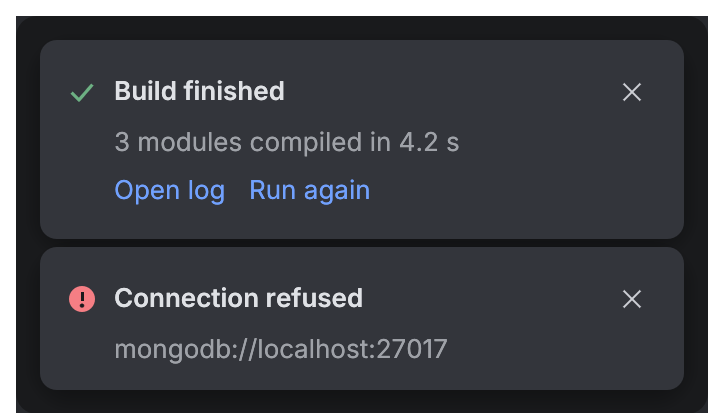
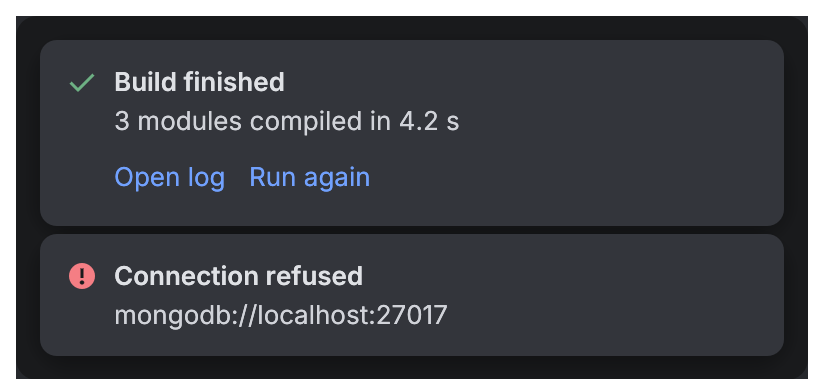
fix(toast): Android Studio notification layout
Match Android Studio's notification balloons: 370 pt wide, the title line as
tall as its text (the dismiss button no longer inflates it), the body in the
text color, and the dismiss button in the top-right corner while the card is
hovered or the button focused (it keeps its name and Tab stop while hidden).

Claude-Session: https://claude.ai/code/session_01CFSJRhkJs2RrB2frFQVn3u

diff --git a/crates/archipel-kit/src/components/feedback.rs b/crates/archipel-kit/src/components/feedback.rs
@@ -197,19 +197,21 @@ impl Toast {
     pub fn show(self, ui: &mut Ui) -> MessageResponse {
         let colors = Theme::colors(ui.ctx());
         let mut out = MessageResponse::default();
-        egui::Frame::new()
+        let padding = size::NOTIFICATION_PADDING;
+        let frame = egui::Frame::new()
             .fill(colors.notification)
             .stroke(Stroke::new(1.0_f32, colors.popup_border))
             .corner_radius(CornerRadius::same(radius::POPUP))
-            .inner_margin(egui::Margin::same(12))
+            .inner_margin(egui::Margin::same(padding as i8))
             .shadow(ui.visuals().popup_shadow)
             .show(ui, |ui| {
-                ui.set_width(296.0);
+                ui.set_width(size::NOTIFICATION_WIDTH - 2.0 * padding);
                 ui.horizontal_top(|ui| {
                     ui.spacing_mut().item_spacing.x = 8.0;
-                    // Center the icon on the title line, which is as tall as the close button.
+                    // The icon sits on the title line.
+                    let line = ui.text_style_height(&egui::TextStyle::Body);
                     ui.allocate_ui_with_layout(
-                        vec2(size::ICON, size::ICON_BUTTON),
+                        vec2(size::ICON, line),
                         egui::Layout::centered_and_justified(egui::Direction::TopDown),
                         |ui| {
                             icons::show(
@@ -222,31 +224,24 @@ impl Toast {
                     );
                     ui.vertical(|ui| {
                         ui.spacing_mut().item_spacing.y = 4.0;
-                        ui.horizontal(|ui| {
-                            ui.add(
-                                egui::Label::new(
-                                    egui::RichText::new(&self.title)
-                                        .font(typography::semibold(ui.ctx(), typography::BODY))
-                                        .color(colors.text_strong),
-                                )
-                                .wrap(),
-                            );
-                            ui.with_layout(egui::Layout::right_to_left(egui::Align::Min), |ui| {
-                                ui.spacing_mut().interact_size = vec2(20.0, 20.0);
-                                if ui.add(IconButton::new(Glyph::Close, "Dismiss")).clicked() {
-                                    out.dismissed = true;
-                                }
-                            });
-                        });
+                        // Leave room for the dismiss button over the title's end.
+                        ui.set_max_width(ui.available_width() - size::ICON_BUTTON_SMALL);
+                        ui.add(
+                            egui::Label::new(
+                                egui::RichText::new(&self.title)
+                                    .font(typography::semibold(ui.ctx(), typography::BODY))
+                                    .color(colors.text_strong),
+                            )
+                            .wrap(),
+                        );
                         if let Some(body) = &self.body {
                             ui.add(
-                                egui::Label::new(
-                                    egui::RichText::new(body).color(colors.text_secondary),
-                                )
-                                .wrap(),
+                                egui::Label::new(egui::RichText::new(body).color(colors.text))
+                                    .wrap(),
                             );
                         }
                         if !self.actions.is_empty() {
+                            ui.add_space(4.0);
                             ui.horizontal(|ui| {
                                 ui.spacing_mut().item_spacing.x = 12.0;
                                 for (index, label) in self.actions.iter().enumerate() {
@@ -259,6 +254,29 @@ impl Toast {
                     });
                 });
             });
+        // As in Android Studio's notifications, the dismiss button shows in the top-right
+        // corner while the pointer is over the card (or the button has focus); it keeps its
+        // name and Tab stop while hidden.
+        let card = frame.response.rect;
+        let corner = egui::Rect::from_min_size(
+            egui::pos2(
+                card.right() - padding / 2.0 - size::ICON_BUTTON_SMALL,
+                card.top() + padding / 2.0,
+            ),
+            vec2(size::ICON_BUTTON_SMALL, size::ICON_BUTTON_SMALL),
+        );
+        let mut close = ui.new_child(egui::UiBuilder::new().max_rect(corner));
+        let close_id = close.next_auto_id();
+        let focused = ui.memory(|m| m.has_focus(close_id));
+        if !(ui.rect_contains_pointer(card) || focused) {
+            close.multiply_opacity(0.0);
+        }
+        if close
+            .add(IconButton::new(Glyph::Close, "Dismiss").small(true))
+            .clicked()
+        {
+            out.dismissed = true;
+        }
         out
     }
 

diff --git a/crates/archipel-kit/src/tokens.rs b/crates/archipel-kit/src/tokens.rs
@@ -57,6 +57,10 @@ pub mod size {
     pub const STATUS_ITEM_PADDING: f32 = 6.0;
     /// Height of a status bar item's hover pill (21 pt in Android Studio).
     pub const STATUS_ITEM_HEIGHT: f32 = 21.0;
+    /// Width of a notification card (370 pt in Android Studio).
+    pub const NOTIFICATION_WIDTH: f32 = 370.0;
+    /// Space inside a notification card.
+    pub const NOTIFICATION_PADDING: f32 = 12.0;
     /// Space inside a breadcrumb at each end.
     pub const BREADCRUMB_PADDING: f32 = 4.0;
     /// Space between a breadcrumb and the chevron after it.

diff --git a/docs/component-map.md b/docs/component-map.md
@@ -109,6 +109,7 @@ pointer and keyboard and recording the screen at 60 fps. The kit reproduces each
 | Tooltip linger | Help tooltips stay about 0.5 s after the pointer leaves, so links in them can be reached | Not reproduced: kit tooltips have no links |
 | Status bar | 30 pt on the frame, 8 pt from the left; items 21 pt hover pills, text `text_secondary`, full strength on hover | `Workbench::status`, `StatusBarItem` |
 | Scroll bars | A 7 pt thumb, 2 pt from the edge, visible at rest (`#3C3D3E` on a dark island), brighter under the pointer (`#565657`); a faint track appears on hover | `tokens::scroll` (no track) |
+| Notifications | 370 pt card, 12 pt padding, icon on the title line, semibold title, body in the text color, links below; dismiss button in the corner on hover | `Toast`, `tokens::size::NOTIFICATION_*` |
 | Navigation path | Crumbs with icons, 4 pt padding, dimmed chevrons between | `Breadcrumbs` |
 
 ## Fixed invariants
